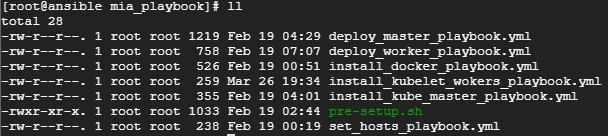
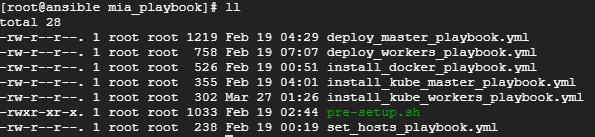
Updated readme

diff --git a/README.md b/README.md
@@ -14,25 +14,25 @@ These instructions will get you a copy of the project up and running on your loc
 * [Kubernetes](https://kubernetes.io/docs/home/) - Kubernetes Cluster
 * Google Cloud Platform
 
-### Test Environment
+## Test Environment
 
 * Linux OS: CentOS Linux release 7.9.2009 (Core)
 * VMs deployed on Google Cloud Platform
 ![image](https://github.com/MiaYWei/ansible_kubernetes/blob/main/images/GoogleCloudPlatform.jpg)
 
-### Network Topology
+## Network Topology
 
 ![image](https://github.com/MiaYWei/ansible_kubernetes/blob/main/images/topology.jpg)
 ```
-Ansible Server:
-  10.128.0.30
-Kubernetes Clusters: 
-  10.128.0.32 k8s-master
-  10.128.0.33 k8s-node-1
-  10.128.0.34 k8s-node-2
-  10.128.0.35 k8s-node-3
-  10.128.0.36 k8s-node-4
-Pods Addresses: 10.244.0.0./16
+	Ansible Server:
+	  10.128.0.30
+	Kubernetes Clusters: 
+	  10.128.0.32 k8s-master
+	  10.128.0.33 k8s-node-1
+	  10.128.0.34 k8s-node-2
+	  10.128.0.35 k8s-node-3
+	  10.128.0.36 k8s-node-4
+	Pods Addresses: 10.244.0.0./16
 ```
 
 ### Ansible Installation and Configuration
@@ -40,9 +40,9 @@ Pods Addresses: 10.244.0.0./16
 #### 1. Install Ansible Server (10.128.0.30)
 Install ansible tool 
 ```
-  sudo yum install epel-release
-  sudo yum install ansible
-  ansible --version
+	sudo yum install epel-release
+	sudo yum install ansible
+	ansible --version
 ```
 ![image](https://github.com/MiaYWei/ansible_kubernetes/blob/main/images/ansible.jpg)
 
@@ -68,79 +68,87 @@ Install ansible tool
 
 ##### 3.1 SSH configuration on all the nodes (10.28.0.30; 10.28.0.32/33/34/35/36)
 ```
-  vim /etc/ssh/sshd_config    
-	• PasswordAuthentication yes 
-	• PermitRootLogin yes
-  sudo systemctl restart sshd
+	vim /etc/ssh/sshd_config    
+		• PasswordAuthentication yes 
+		• PermitRootLogin yes
+	sudo systemctl restart sshd
 ```
-
-##### 3.2 Generate ssh key on ansible node
+##### 3.2 Generate ssh key on ansible server
 ```
-  ssh-keygen
+	ssh-keygen
 ```
-
 ##### 3.3 Copy ssh key from ansile node to all the nodes 
 ```
-  ssh-copy-id -i ~/.ssh/id_rsa.pub 10.128.0.32
-  ssh-copy-id -i ~/.ssh/id_rsa.pub 10.128.0.33
-  ssh-copy-id -i ~/.ssh/id_rsa.pub 10.128.0.34
-  ssh-copy-id -i ~/.ssh/id_rsa.pub 10.128.0.35
-  ssh-copy-id -i ~/.ssh/id_rsa.pub 10.128.0.36
+	ssh-copy-id -i ~/.ssh/id_rsa.pub 10.128.0.32
+	ssh-copy-id -i ~/.ssh/id_rsa.pub 10.128.0.33
+	ssh-copy-id -i ~/.ssh/id_rsa.pub 10.128.0.34
+	ssh-copy-id -i ~/.ssh/id_rsa.pub 10.128.0.35
+	ssh-copy-id -i ~/.ssh/id_rsa.pub 10.128.0.36
 ```
-
 ##### 3.4 Check Connectivity  
 ```
-  ansible -m ping all
+	ansible -m ping all
 ```
 ![image](https://github.com/MiaYWei/ansible_kubernetes/blob/main/images/ansible_ping.jpg)
 
-## Ansible Playbooks
+## Ansible Playbooks deploy Kubernetes cluster
 In our project, Ansible playbooks are implemented to
 
 * Deploy Kubernetes cluster: master node and worker nodes
-* Install, upgrade or downgrade software: Docker and kubectl and kubelet
+* Install, upgrade or downgrade software: Docker; kubectl, kubeadm, and kubelet
 
 ```
-  deploy_master_playbook.yml
-  deploy_worker_playbook.yml
-  install_docker_playbook.yml
-  install_kube_master_playbook.yml
-  install_kubelet_workers_playbook.yml
+	install_docker_playbook.yml
+	install_kube_master_playbook.yml
+	install_kube_workers_playbook.yml
+	deploy_master_playbook.yml
+	deploy_workers_playbook.yml
 ```
 
 ### 1. Upload playbooks to ansible server node
 ![image](https://github.com/MiaYWei/ansible_kubernetes/blob/main/images/playbooks.jpg)
 
-### 2. Deploy master node
+### 2. Install Docker on all the nodes
 ```
-  cd mia_playbook
-  ansible-playbook deploy_master_playbook.yml
+	ansible-playbook deploy_docker_playbook.yml
 ```
-![image](https://github.com/MiaYWei/ansible_kubernetes/blob/main/images/master.jpg)
+![image](https://github.com/MiaYWei/ansible_kubernetes/blob/main/images/install_docker.jpg)
 
-### 3. Deploy worker nodes 
+### 3. Install kubectl, kubeadm and kubelet on master node
 ```
-  ansible-playbook deploy_worker_playbook.yml
+	ansible-playbook install_kube_master_playbook.yml
 ```
-![image](https://github.com/MiaYWei/ansible_kubernetes/blob/main/images/workers.jpg)
+![image](https://github.com/MiaYWei/ansible_kubernetes/blob/main/images/install_master.jpg)
 
-### 4. Install kubectl kubeadm and kubelet on master node
-###    Install kubelet on all the worker nodes
+### 4. Install kubeadm and kubelet on workers node
 ```
-  ansible-playbook install_kube_master_playbook.yml
-  ansible-playbook install_kubelet_wokers_playbook.yml
+	ansible-playbook install_kube_wokers_playbook.yml
 ```
-![image](https://github.com/MiaYWei/ansible_kubernetes/blob/main/images/install_kubelet_workers.jpg)
+![image](https://github.com/MiaYWei/ansible_kubernetes/blob/main/images/install_workers.jpg)
 
-### 5. Install Docker
+### 5. Deploy control plan
 ```
-  ansible-playbook deploy_docker_playbook.yml
+	ansible-playbook deploy_master_playbook.yml
 ```
-![image](https://github.com/MiaYWei/ansible_kubernetes/blob/main/images/docker.jpg)
+![image](https://github.com/MiaYWei/ansible_kubernetes/blob/main/images/deploy_master.jpg)
 
-### 6. Check the deployment status
+### 6. Deploy worker nodes 
+```
+	ansible-playbook deploy_workers_playbook.yml
+```
+![image](https://github.com/MiaYWei/ansible_kubernetes/blob/main/images/deploy_workers.jpg)
+
+### 7. Check the deployment status
 ![image](https://github.com/MiaYWei/ansible_kubernetes/blob/main/images/nodes.jpg)
 ![image](https://github.com/MiaYWei/ansible_kubernetes/blob/main/images/pods.jpg)
+
+### Software upgrade/downgrade 
+
+#### Modify the kube_version in playbook, and run the modified playbook to re-install
+
+#### For example: downgrade all the kube softwware to 1.15.0-0 on all the worker nodes
+![image](https://github.com/MiaYWei/ansible_kubernetes/blob/main/images/donwgrade_playbook.jpg)
+![image](https://github.com/MiaYWei/ansible_kubernetes/blob/main/images/donwgrade.jpg)
 
 ## Authors
 
@@ -151,7 +159,3 @@ See also [Mengyao Wu](https://github.com/MengyaoWuNotAvailable/jetson_ML_contain
 ## License
 
 This project is licensed under the MIT License - see the [LICENSE.md](LICENSE.md) file for details
-
-## Acknowledgments
-* etc
-
